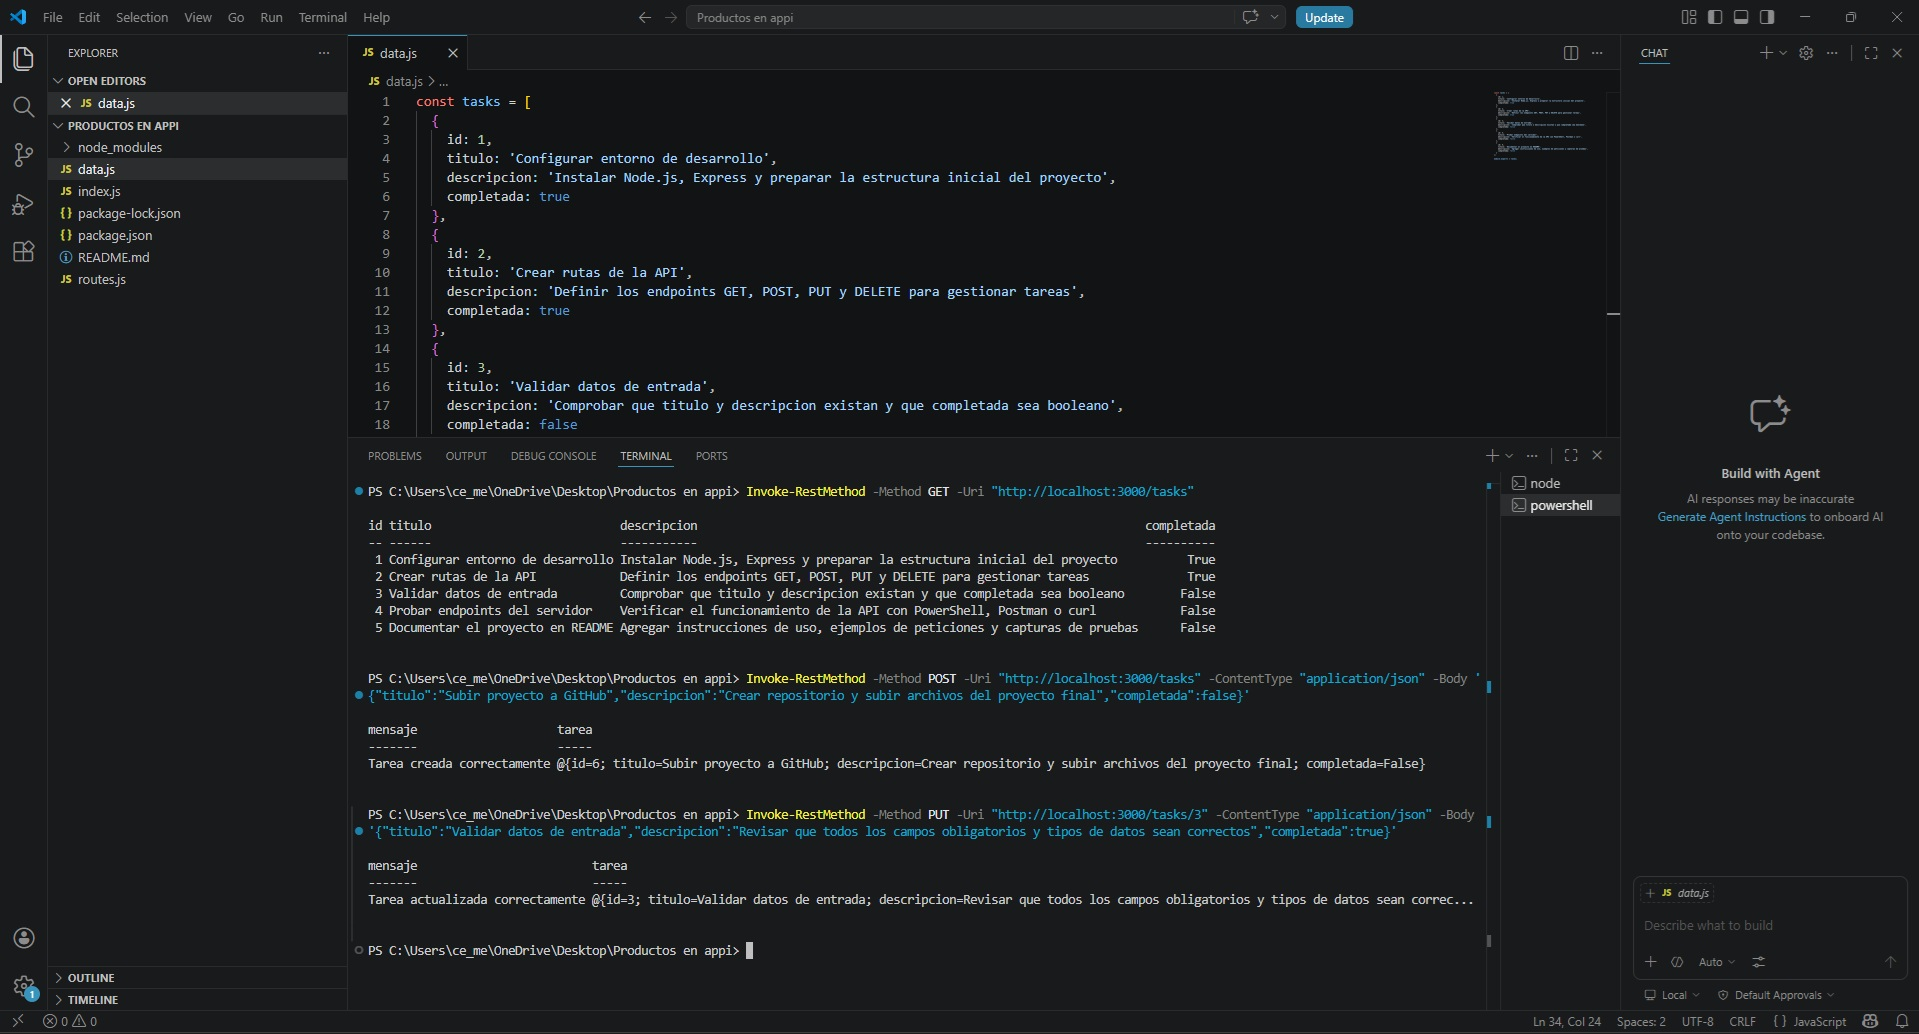
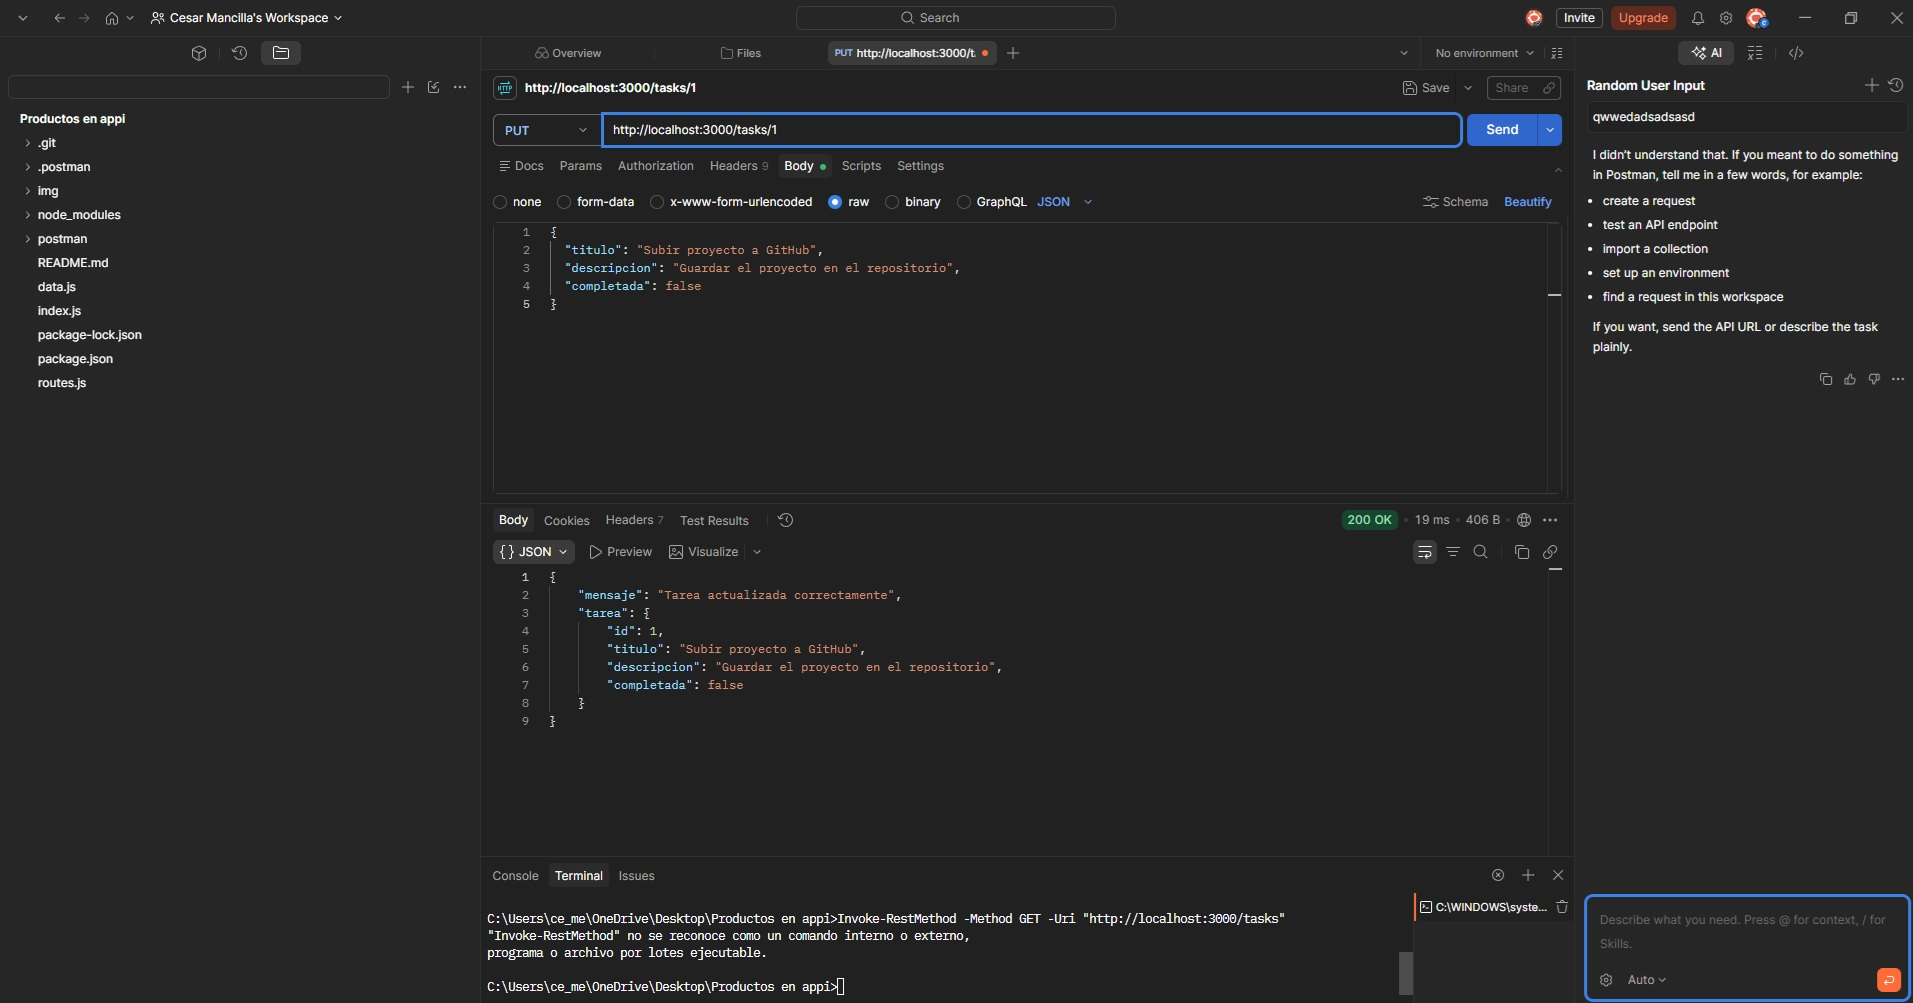
Actualiza README

diff --git a/README.md b/README.md
@@ -1,205 +1,164 @@
-Mi primera API 
-Descripción
-Este proyecto consiste en una API RESTful básica desarrollada con Node.js y Express.js para gestionar tareas mediante operaciones CRUD (Crear, Leer, Actualizar y Eliminar) [file:1]. Los datos se almacenan en un archivo externo data.js, utilizando un arreglo de objetos, sin base de datos, tal como exige la evaluación [file:1].
-Objetivo
-El objetivo es comprender cómo se estructura un servidor con Express, cómo manejar rutas y métodos HTTP, y cómo enviar y recibir datos en formato JSON [file:1]. También se busca aplicar validaciones básicas, manejo de errores y organización del proyecto en archivos separados [file:1].
-Estructura del proyecto
-mi-primera-api-express/
+# Mi primera API 
+
+API RESTful básica desarrollada con Node.js y Express para gestionar tareas mediante operaciones CRUD.  
+El proyecto almacena los datos en un archivo JavaScript externo y permite probar los endpoints con Postman.
+
+## Descripción
+
+Esta API permite crear, listar, actualizar y eliminar tareas.  
+Cada tarea contiene los campos:
+
+- id
+- titulo
+- descripcion
+- completada
+
+La aplicación fue creada como parte de una evaluación de programación backend, cumpliendo con los métodos HTTP GET, POST, PUT y DELETE, el uso de JSON y la documentación de pruebas en el README [file:1].
+
+## Tecnologías utilizadas
+
+- Node.js
+- Express.js
+- Postman
+
+## Estructura del proyecto
+
+```bash
+.
+├── data.js
 ├── index.js
 ├── routes.js
-├── data.js
 ├── package.json
 └── README.md
+```
 
-Tecnologías utilizadas
-•	Node.js
-•	Express.js
-•	PowerShell o Postman para pruebas
-•	JSON como formato de intercambio de datos [file:1]
-Instalación
-1.	Descargar o clonar el repositorio.
-2.	Abrir la carpeta del proyecto en Visual Studio Code.
-3.	Ejecutar el siguiente comando en la terminal:
+## Instalación
+
+1. Clona el repositorio.
+2. Instala las dependencias:
+
+```bash
 npm install
+```
 
-Ejecución del servidor
-Para iniciar el servidor, ejecutar:
+## Ejecución
+
+Para iniciar el servidor, usa:
+
+```bash
+node index.js
+```
+
+Si tu proyecto tiene un script en `package.json`, también puedes usar:
+
+```bash
 npm start
+```
 
-Si todo está correcto, aparecerá el siguiente mensaje en consola:
-Servidor corriendo en http://localhost:3000
+El servidor se ejecutará en:
 
-Endpoints disponibles
-Método	Endpoint	Descripción
-GET	/tasks	Lista todas las tareas
-POST	/tasks	Crea una nueva tarea
-PUT	/tasks/:id	Actualiza una tarea existente
-DELETE	/tasks/:id	Elimina una tarea existente
+```bash
+http://localhost:3000
+```
 
-Datos iniciales del proyecto
-El archivo data.js contiene tareas relacionadas con el desarrollo y documentación de una API backend, usando nombres más naturales y coherentes con el contexto del trabajo:
-const tasks = [
-  {
-    id: 1,
-    titulo: 'Configurar entorno de desarrollo',
-    descripcion: 'Instalar Node.js, Express y preparar la estructura inicial del proyecto',
-    completada: true
-  },
-  {
-    id: 2,
-    titulo: 'Crear rutas de la API',
-    descripcion: 'Definir los endpoints GET, POST, PUT y DELETE para gestionar tareas',
-    completada: true
-  },
-  {
-    id: 3,
-    titulo: 'Validar datos de entrada',
-    descripcion: 'Comprobar que titulo y descripcion existan y que completada sea booleano',
-    completada: false
-  },
-  {
-    id: 4,
-    titulo: 'Probar endpoints del servidor',
-    descripcion: 'Verificar el funcionamiento de la API con PowerShell, Postman o curl',
-    completada: false
-  },
-  {
-    id: 5,
-    titulo: 'Documentar el proyecto en README',
-    descripcion: 'Agregar instrucciones de uso, ejemplos de peticiones y capturas de pruebas',
-    completada: false
-  }
-];
+## Endpoints disponibles
 
-Validaciones implementadas
-La API valida lo siguiente antes de crear o actualizar una tarea [file:1]:
-•	titulo es obligatorio.
-•	descripcion es obligatoria.
-•	completada debe ser booleano (true o false).
-•	Si faltan campos o los datos son inválidos, responde con código 400 [file:1].
-•	Si el recurso no existe, responde con código 404 [file:1].
-Códigos HTTP utilizados
-•	200: operación exitosa.
-•	201: recurso creado correctamente.
-•	400: datos inválidos o incompletos [file:1].
-•	404: recurso no encontrado [file:1].
-Ejemplos de pruebas
-La evaluación solicita incluir ejemplos de petición y respuesta JSON para GET, POST, PUT y DELETE, además de pantallazos de las pruebas [file:1].
-1. GET - Listar todas las tareas
-Petición:
-Invoke-RestMethod -Method GET -Uri "http://localhost:3000/tasks"
+- `GET /tasks` → listar todas las tareas.
+- `POST /tasks` → crear una nueva tarea.
+- `PUT /tasks/:id` → actualizar una tarea existente.
+- `DELETE /tasks/:id` → eliminar una tarea existente.
 
-Respuesta JSON esperada:
-[
-  {
-    "id": 1,
-    "titulo": "Configurar entorno de desarrollo",
-    "descripcion": "Instalar Node.js, Express y preparar la estructura inicial del proyecto",
-    "completada": true
-  },
-  {
-    "id": 2,
-    "titulo": "Crear rutas de la API",
-    "descripcion": "Definir los endpoints GET, POST, PUT y DELETE para gestionar tareas",
-    "completada": true
-  },
-  {
-    "id": 3,
-    "titulo": "Validar datos de entrada",
-    "descripcion": "Comprobar que titulo y descripcion existan y que completada sea booleano",
-    "completada": false
-  },
-  {
-    "id": 4,
-    "titulo": "Probar endpoints del servidor",
-    "descripcion": "Verificar el funcionamiento de la API con PowerShell, Postman o curl",
-    "completada": false
-  },
-  {
-    "id": 5,
-    "titulo": "Documentar el proyecto en README",
-    "descripcion": "Agregar instrucciones de uso, ejemplos de peticiones y capturas de pruebas",
-    "completada": false
-  }
-]
+## Ejemplos de uso
 
-Pantallazo de prueba GET:
-![Prueba GET /tasks](img/get-tasks.jpg)
-2. POST - Crear una nueva tarea
-Petición:
-Invoke-RestMethod -Method POST -Uri "http://localhost:3000/tasks" -ContentType "application/json" -Body '{"titulo":"Subir proyecto a GitHub","descripcion":"Crear repositorio y subir archivos del proyecto final","completada":false}'
+### GET /tasks
 
-Respuesta JSON esperada:
+Devuelve todas las tareas registradas.
+
+### POST /tasks
+
+Crea una nueva tarea enviando un JSON con los campos requeridos.
+
+### PUT /tasks/:id
+
+Actualiza una tarea existente usando su `id`.
+
+### DELETE /tasks/:id
+
+Elimina una tarea existente usando su `id`.
+
+## Pruebas con Postman
+
+A continuación se muestran las pruebas realizadas con Postman para verificar el funcionamiento de la API RESTful. Cada endpoint responde con JSON y permite ejecutar las operaciones CRUD solicitadas en la evaluación [file:1][web:96].
+
+### 1. GET /tasks
+
+**Descripción:** Lista todas las tareas registradas.
+
+**Petición en Postman:**
+- Método: `GET`
+- URL: `http://localhost:3000/tasks`
+
+**Captura:**
+![GET /tasks](img/get-tasks.jpg)
+
+### 2. POST /tasks
+
+**Descripción:** Crea una nueva tarea.
+
+**Petición en Postman:**
+- Método: `POST`
+- URL: `http://localhost:3000/tasks`
+- Body: `raw` → `JSON`
+
+```json
 {
-  "mensaje": "Tarea creada correctamente",
-  "tarea": {
-    "id": 6,
-    "titulo": "Subir proyecto a GitHub",
-    "descripcion": "Crear repositorio y subir archivos del proyecto final",
-    "completada": false
-  }
+  "titulo": "Subir proyecto a GitHub",
+  "descripcion": "Guardar el proyecto en el repositorio",
+  "completada": false
 }
+```
 
-Pantallazo de prueba POST:
-![Prueba POST /tasks](img/post-task.jpg)
-3. PUT - Actualizar una tarea
-Petición:
-Invoke-RestMethod -Method PUT -Uri "http://localhost:3000/tasks/3" -ContentType "application/json" -Body '{"titulo":"Validar datos de entrada","descripcion":"Revisar que todos los campos obligatorios y tipos de datos sean correctos","completada":true}'
+**Captura:**
+![POST /tasks](img/post-tasks.jpg)
 
-Respuesta JSON esperada:
+### 3. PUT /tasks/:id
+
+**Descripción:** Actualiza una tarea existente.
+
+**Petición en Postman:**
+- Método: `PUT`
+- URL: `http://localhost:3000/tasks/1`
+- Body: `raw` → `JSON`
+
+```json
 {
-  "mensaje": "Tarea actualizada correctamente",
-  "tarea": {
-    "id": 3,
-    "titulo": "Validar datos de entrada",
-    "descripcion": "Revisar que todos los campos obligatorios y tipos de datos sean correctos",
-    "completada": true
-  }
+  "titulo": "Subir proyecto a GitHub",
+  "descripcion": "Actualizar el proyecto en el repositorio",
+  "completada": true
 }
+```
 
-Pantallazo de prueba PUT:
-![Prueba PUT /tasks/3](img/put-task.jpg)
-4. DELETE - Eliminar una tarea
-Petición:
-Invoke-RestMethod -Method DELETE -Uri "http://localhost:3000/tasks/2"
+**Captura:**
+![PUT /tasks/1](img/put-tasks.jpg)
 
-Respuesta JSON esperada:
-{
-  "mensaje": "Tarea eliminada correctamente",
-  "tarea": {
-    "id": 2,
-    "titulo": "Crear rutas de la API",
-    "descripcion": "Definir los endpoints GET, POST, PUT y DELETE para gestionar tareas",
-    "completada": true
-  }
-}
+### 4. DELETE /tasks/:id
 
-Pantallazo de prueba DELETE:
-![Prueba DELETE /tasks/2](img/delete-task.jpg)
+**Descripción:** Elimina una tarea existente.
 
-Pantallazo de prueba DELETE:
+**Petición en Postman:**
+- Método: `DELETE`
+- URL: `http://localhost:3000/tasks/1`
 
-5. GET final - Verificación final
-Este GET final se realizó después de probar POST, PUT y DELETE, para comprobar que los cambios quedaron aplicados correctamente en la lista de tareas.
+**Captura:**
+![DELETE /tasks/1](img/delete-tasks.jpg)
 
-Petición:
+### 5. GET final /tasks
 
-powershell
-Invoke-RestMethod -Method GET -Uri "http://localhost:3000/tasks"
-Pantallazo de verificación final:
-![Prueba GET final](img/get-final.jpeg)
+**Descripción:** Verificación final para comprobar que los cambios quedaron aplicados.
 
-Flujo de la aplicación
-1.	index.js inicializa el servidor Express.
-2.	express.json() permite recibir y procesar datos JSON.
-3.	routes.js contiene la lógica de las operaciones CRUD.
-4.	data.js almacena el arreglo de tareas en memoria [file:1].
-5.	La API responde con JSON y utiliza códigos HTTP adecuados según el resultado de cada operación [file:1].
-Decisiones de diseño
-•	Se utilizó Express.js porque es el framework solicitado por la evaluación [file:1].
-•	Se separó el proyecto en archivos para cumplir con la estructura mínima requerida [file:1].
-•	Se trabajó con un archivo externo data.js en lugar de base de datos, tal como se solicita [file:1].
-•	Se usaron títulos y descripciones de tareas más naturales para dar mayor autenticidad al proyecto.
-•	Se implementaron validaciones y manejo de errores para cumplir con la rúbrica [file:1].
-Conclusión
-La API desarrollada cumple con los requisitos de la evaluación: uso de Express.js, estructura organizada, almacenamiento en archivo externo, operaciones CRUD, validaciones básicas, respuestas JSON y documentación de pruebas [file:1]. Además, se incorporaron pantallazos reales de funcionamiento en el README.md
+**Petición en Postman:**
+- Método: `GET`
+- URL: `http://localhost:3000/tasks`
+
+**Captura:**
+![GET final /tasks](img/get-final.jpg)